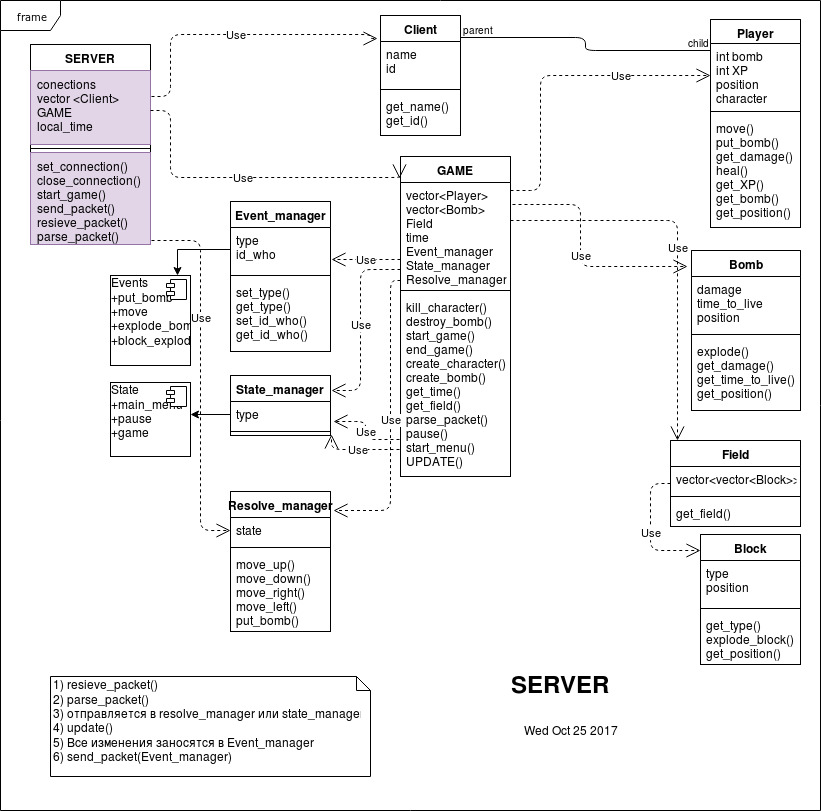
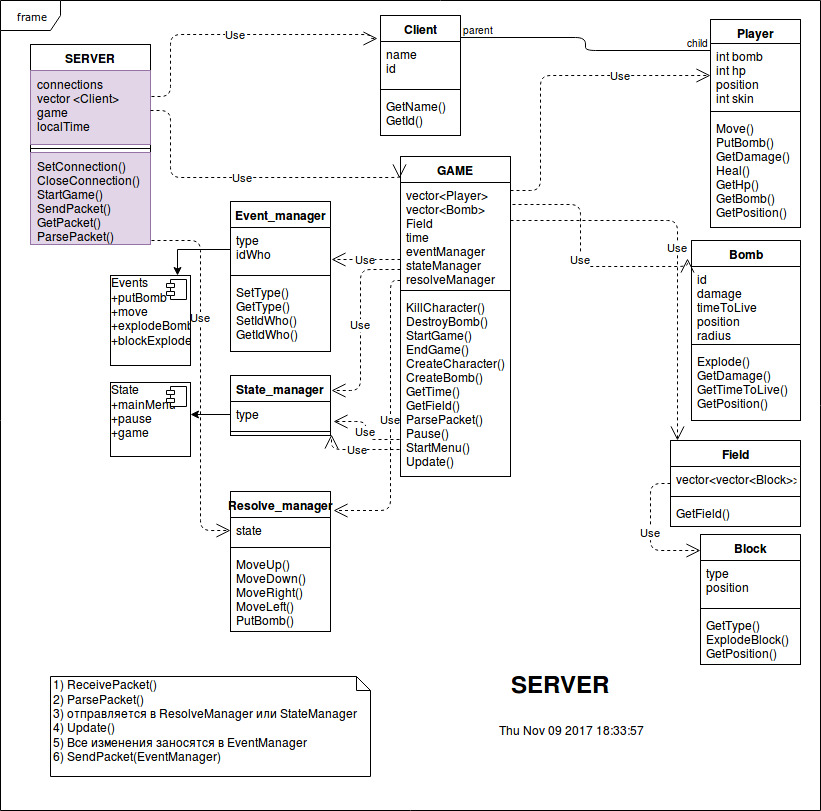
Changed XML and added beginning of class Game

diff --git a/Server/Game.h b/Server/Game.h
@@ -1,3 +1,6 @@
+#ifndef GAME_H
+#define GAME_H
+
 #include <iostream>
 #include <vector>
 #include "Define.h"
@@ -17,33 +20,28 @@ public:
 		 EventManager *_eventManager, 
 		 StateManager *_stateManager,
 		 ResolveManager *_resolveManager):
+
 		field(_field),
 		time(_time),
 		eventManager(_eventManager),
 		stateManager(_stateManager),
 		resolveManager(_resolveManager) {};
-	void StartGame();
+
 	void KillCharacter();
 	void DestroyBomb();
-
-
+	void StartGame();
+	void EndGame();
+	void CreateCharacter();
+	void CreateBomb();
+	void GetTime();
+	void GetField();
+	void ParsePacket();
+	void Pause();
+	void StartMenu();
+	void Update();
 };
 
-void Game::KillCharacter() {	//kills player who has 0 hp
-	/* Передача всем игрокам
-	сигнала о том, что персонаж
-	умер. Удаление игрока из
-	вектора. */
-
-
-}
-
-void Game::DestroyBomb() {
-
-}
-
-
-
+#endif
 
 
 

diff --git a/Server/Game.cc b/Server/Game.cc
@@ -1,0 +1,54 @@
+#include "game.h"
+
+void Game::KillCharacter() {	//kills player who has 0 hp
+	/* Передача всем игрокам
+	сигнала о том, что персонаж
+	умер. Удаление игрока из
+	вектора. */
+
+}
+
+void Game::DestroyBomb() {
+
+}
+
+void StartGame() {
+
+}
+
+void EndGame() {
+
+}
+
+void CreateCharacter() {
+
+}
+
+void CreateBomb() {
+	Bomb bomb;
+}
+
+void GetTime() {
+
+}
+
+void GetField() {
+
+}
+
+void ParsePacket() {
+
+}
+
+void Pause() {
+
+}
+
+void StartMenu() {
+
+}
+
+void Update() {
+
+}
+
